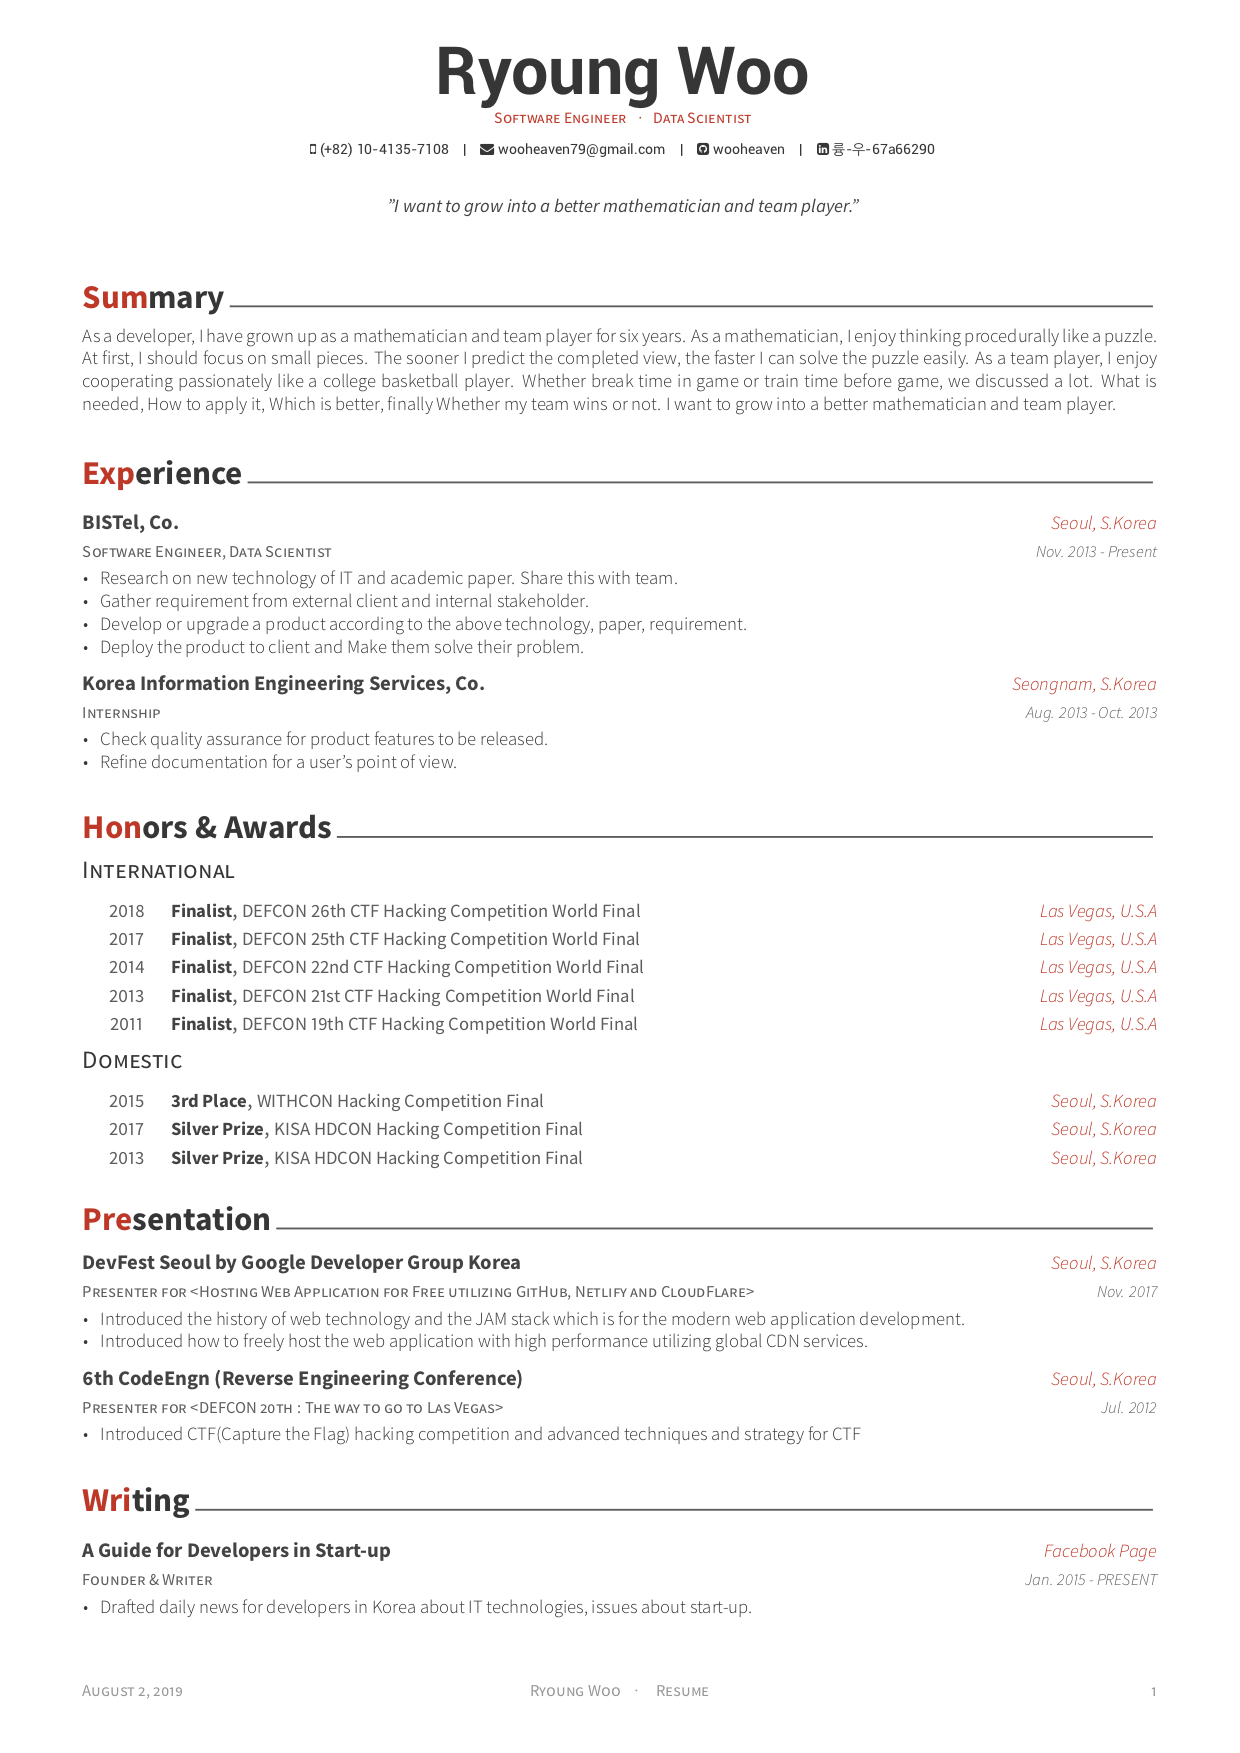
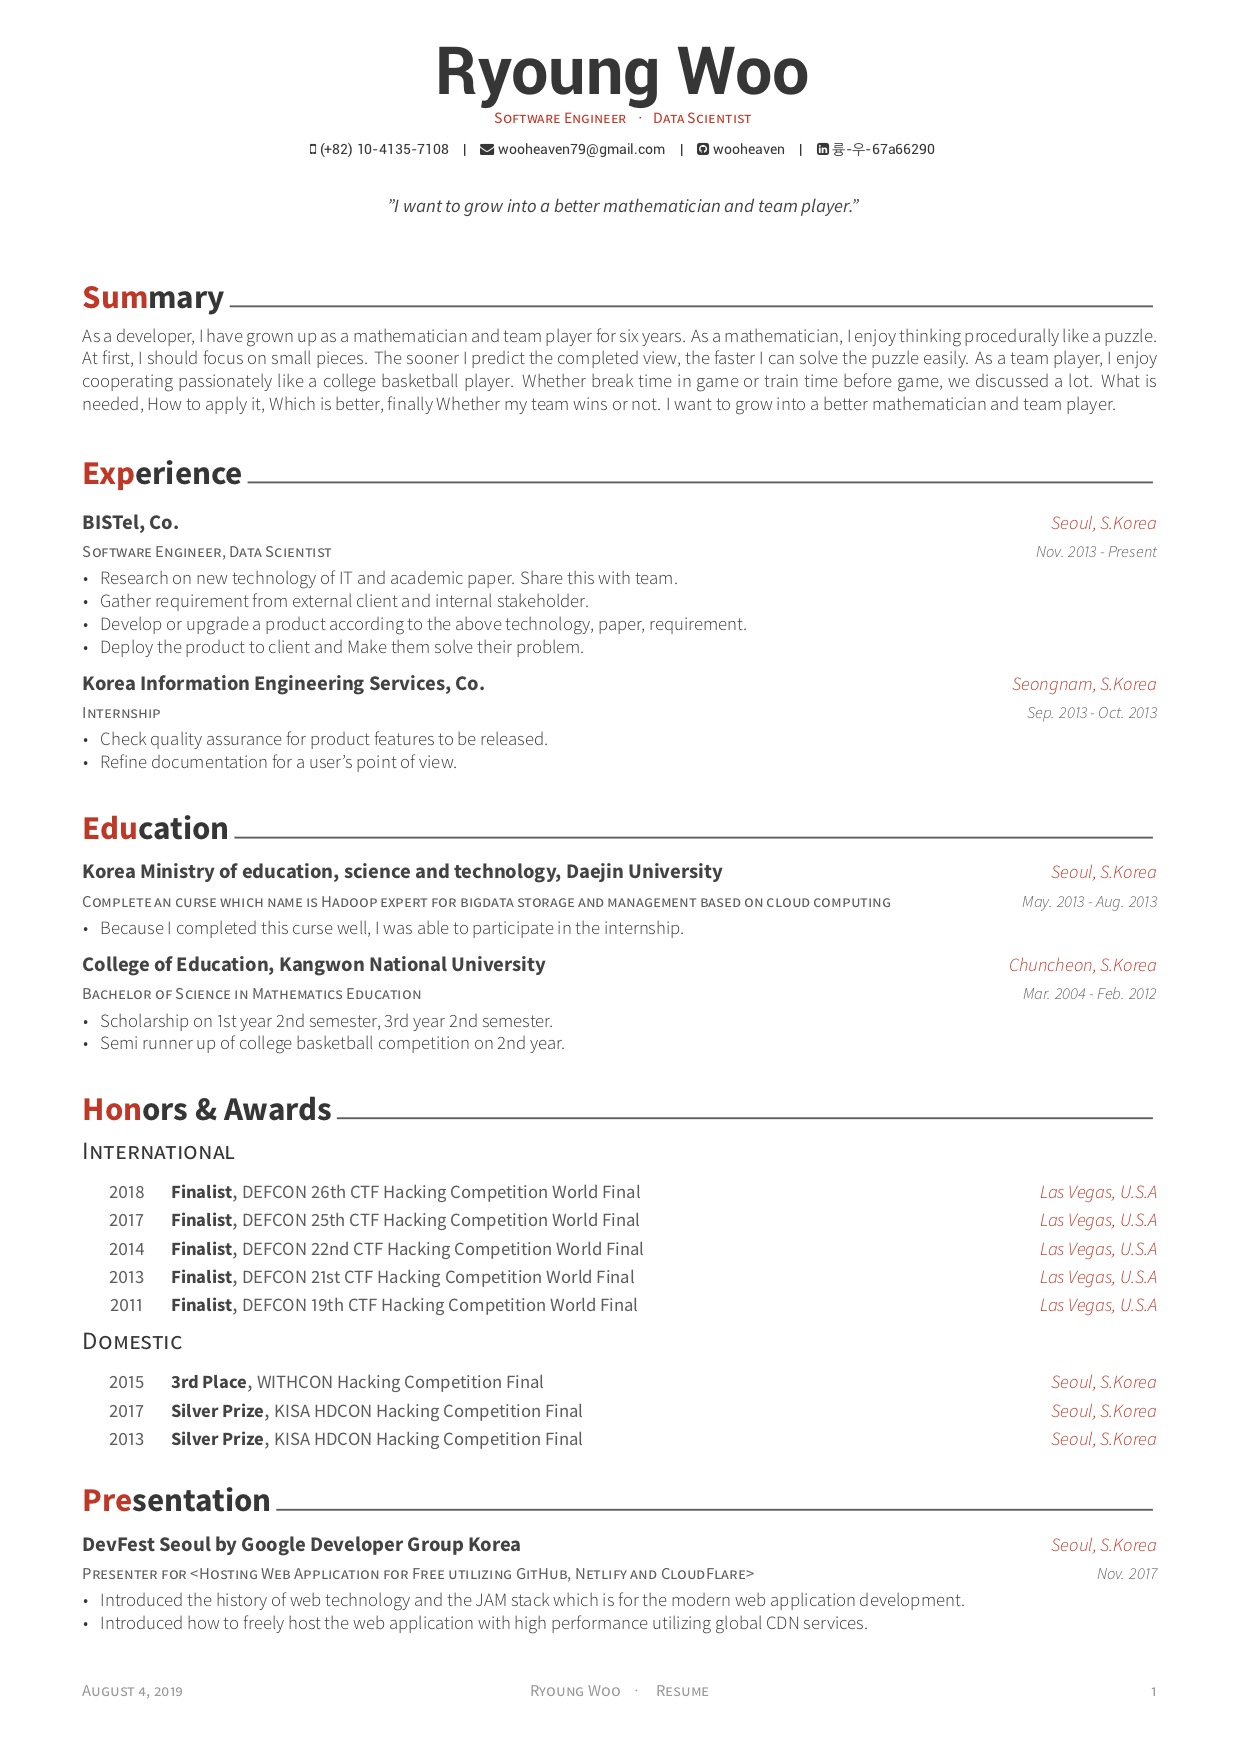
#7-modify-education ``` modified:   examples/resume-0.png modified:   examples/resume-1.png modified:   examples/resume.pdf modified:   examples/resume.tex modified:   examples/resume/education.tex modified:   examples/resume/experience.tex ```

diff --git a/examples/resume/education.tex b/examples/resume/education.tex
@@ -11,15 +11,29 @@
 
 %---------------------------------------------------------
   \cventry
-    {B.S. in Computer Science and Engineering} % Degree
-    {POSTECH(Pohang University of Science and Technology)} % Institution
-    {Pohang, S.Korea} % Location
-    {Mar. 2010 - Aug. 2017} % Date(s)
+    {Complete an curse which name is Hadoop expert for bigdata storage and management based on cloud computing} % Degree
+    {Korea Ministry of education, science and technology, Daejin University} % Institution
+    {Seoul, S.Korea} % Location
+    {May. 2013 - Aug. 2013} % Date(s)
     {
       \begin{cvitems} % Description(s) bullet points
-        \item {Got a Chun Shin-Il Scholarship which is given to promising students in CSE Dept.}
+        \item {Because I completed this curse well, I was able to participate in the internship.}
       \end{cvitems}
     }
+%---------------------------------------------------------
 
 %---------------------------------------------------------
+  \cventry
+    {Bachelor of Science in Mathematics Education} % Degree
+    {College of Education, Kangwon National University} % Institution
+    {Chuncheon, S.Korea} % Location
+    {Mar. 2004 - Feb. 2012} % Date(s)
+    {
+      \begin{cvitems} % Description(s) bullet points
+        \item {Scholarship on 1st year 2nd semester, 3rd year 2nd semester.}
+        \item {Semi runner up of college basketball competition on 2nd year.}
+      \end{cvitems}
+    }
+%---------------------------------------------------------
+
 \end{cventries}

diff --git a/examples/resume.tex b/examples/resume.tex
@@ -98,11 +98,11 @@
 %-------------------------------------------------------------------------------
 \input{resume/summary.tex}
 \input{resume/experience.tex}
+\input{resume/education.tex}
 \input{resume/honors.tex}
 \input{resume/presentation.tex}
 \input{resume/writing.tex}
 \input{resume/committees.tex}
-\input{resume/education.tex}
 \input{resume/extracurricular.tex}
 
 

diff --git a/examples/resume/experience.tex b/examples/resume/experience.tex
@@ -30,7 +30,7 @@
     {Internship} % Job title
     {Korea Information Engineering Services, Co.} % Organization
     {Seongnam, S.Korea} % Location
-    {Aug. 2013 - Oct. 2013} % Date(s)
+    {Sep. 2013 - Oct. 2013} % Date(s)
     {
       \begin{cvitems} % Description(s) of tasks/responsibilities
         \item {Check quality assurance for product features to be released.}
